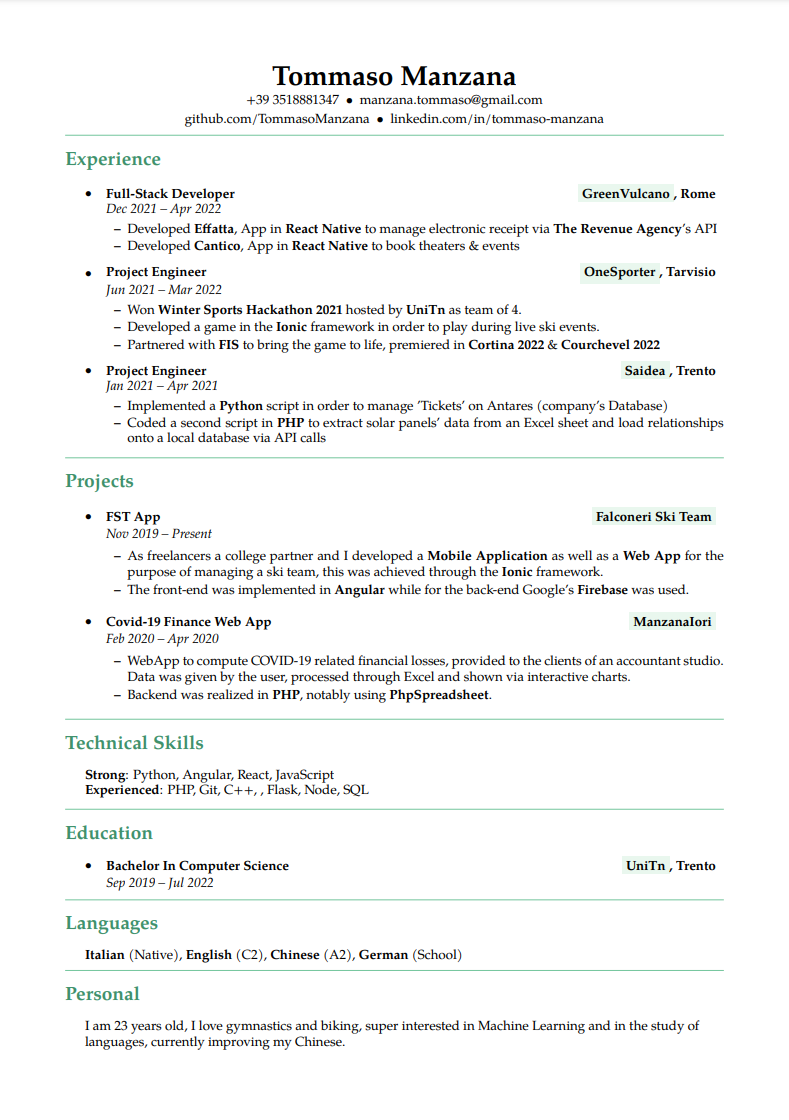
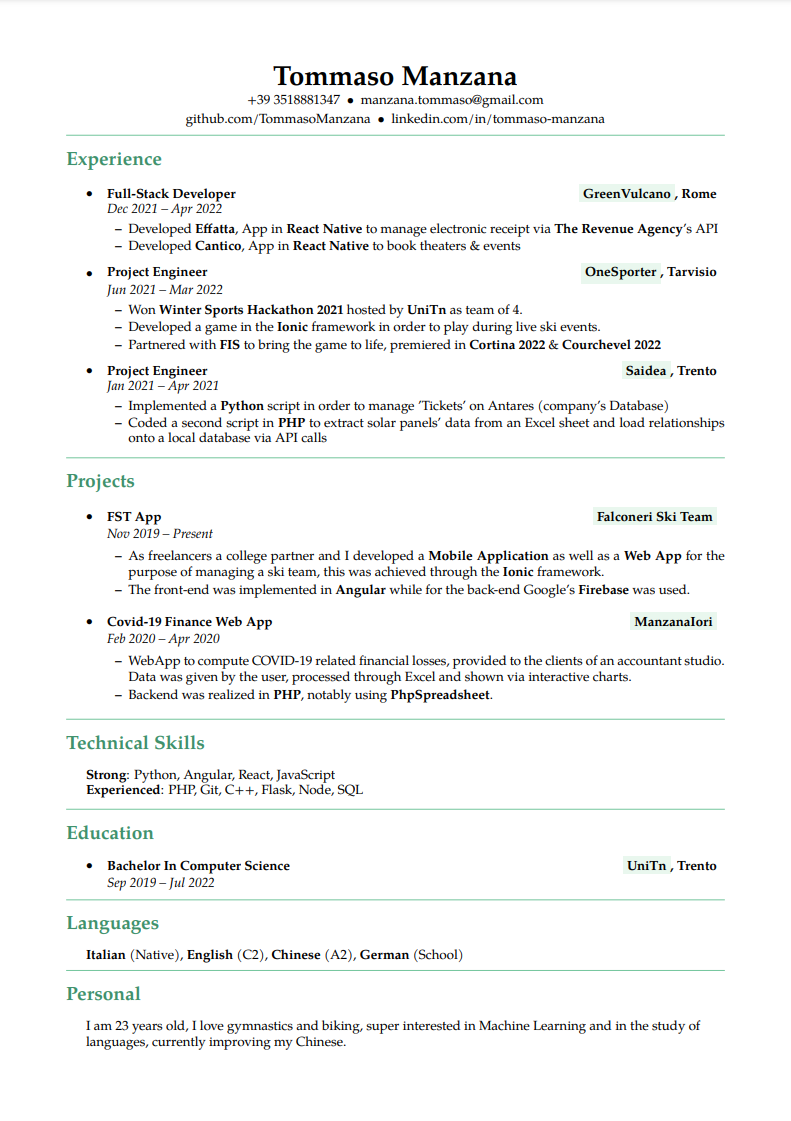
Fix typo

diff --git a/main.tex b/main.tex
@@ -181,7 +181,7 @@
 \end{flushleft}
 \vspace{-1.0em}
 \begin{flushleft}
-    \textbf{Experienced}: PHP, Git, C++, , Flask, Node, SQL
+    \textbf{Experienced}: PHP, Git, C++, Flask, Node, SQL
 \end{flushleft}
 \end{indentsection}
 
